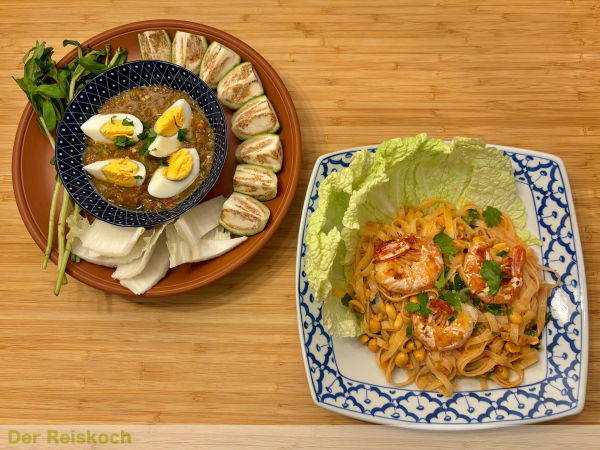
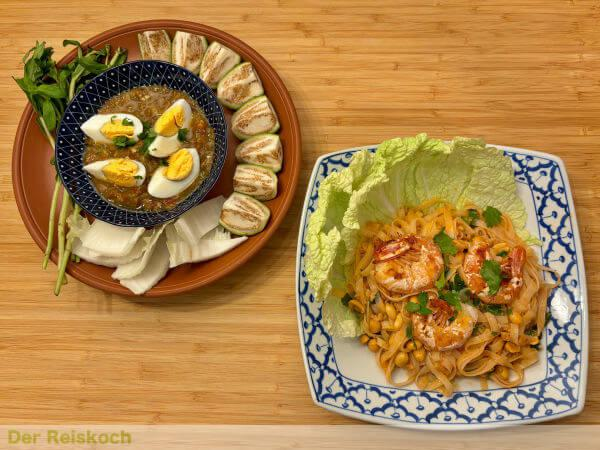
optimized images

diff --git a/imagemin.js b/imagemin.js
@@ -1,4 +1,4 @@
-/*"use strict";
+"use strict";
 const fs = require("fs");
 const imagemin = require("imagemin");
 
@@ -57,4 +57,4 @@ Promise.resolve(process.argv)
   .catch((e) => {
     console.error(e);
     process.exit(1);
-  });*/
+  });
